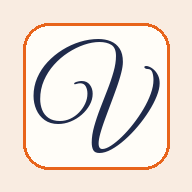
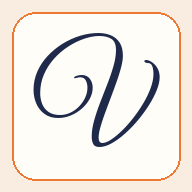
Match exact Hermes orange from client swatch (#ed7933)

Changed region(s): [[0.0625, 0.0625, 0.9688, 0.9688]]

diff --git a/styles.css b/styles.css
@@ -14,23 +14,23 @@
 :root {
   --blush: #f9ece1;
   --paper: #fffdf8;
-  --rose: #e8641b;
-  --rose-deep: #c6520d;
+  --rose: #ed7933;
+  --rose-deep: #d05f15;
   --rose-strong: #b3540d;   /* AA white-on-rose */
   --rose-text: #9c4a0d;     /* AA small text on paper */
   --navy: #1f2a4a;
-  --line: #f0d3bc;
+  --line: #f6d8bd;
   --rule: #cfd8ea;
-  --margin-red: #eda389;
+  --margin-red: #f2a878;
 
   --script: 'Great Vibes', cursive;
   --serif: 'Times New Roman', Times, serif;
 
   --pad-rhythm: 2.2rem;              /* ruled-line spacing */
   --shadow-soft: 0 1px 2px rgba(31, 42, 74, 0.06),
-                 0 6px 18px rgba(198, 82, 13, 0.10);
+                 0 6px 18px rgba(208, 95, 21, 0.10);
   --shadow-lift: 0 2px 4px rgba(31, 42, 74, 0.08),
-                 0 12px 26px rgba(198, 82, 13, 0.16);
+                 0 12px 26px rgba(208, 95, 21, 0.16);
 }
 
 /* ---------- base ---------- */
@@ -204,7 +204,7 @@ main {
   height: 2.6rem;
   background-color: var(--rose);
   border-bottom: 2px dashed rgba(255, 253, 248, 0.65);
-  box-shadow: inset 0 -3px 6px rgba(198, 82, 13, 0.45);
+  box-shadow: inset 0 -3px 6px rgba(208, 95, 21, 0.45);
 }
 
 /* red margin line, full height under the binding */
@@ -615,7 +615,7 @@ main {
   height: 11px;
   border-radius: 50% 47% 51% 49%;
   background-color: var(--rose);
-  box-shadow: inset 0 1px 2px rgba(198, 82, 13, 0.6);
+  box-shadow: inset 0 1px 2px rgba(208, 95, 21, 0.6);
 }
 
 .project-card:hover {
@@ -737,7 +737,7 @@ main {
   color: #fffdf8;
   border-radius: 999px;
   font-size: 1rem;
-  box-shadow: 0 2px 6px rgba(198, 82, 13, 0.25);
+  box-shadow: 0 2px 6px rgba(208, 95, 21, 0.25);
   transition: background-color 0.15s ease-out, transform 0.15s ease-out;
 }
 

diff --git a/sw.js b/sw.js
@@ -1,4 +1,4 @@
-const CACHE = 'vivi-v4';
+const CACHE = 'vivi-v5';
 const ASSETS = [
   './',
   './index.html',

diff --git a/MEMORY.md b/MEMORY.md
@@ -2,7 +2,7 @@
 
 ## 2026-07-13 — Vicki's review round
 - Client = Vicki Heise. Change pink → Hermes orange (keep navy, keep classy). Add: weather for both homes (Amy Lane = Wheaton IL, Villa/Valle Vista = Indian Wells CA), Jeff's to-do list (she tracks it), Travel plans module (CA↔IL winters), Mark's care notes + contacts, Dad's hospice updates + contacts.
-- She spelled it "Valle Vista" this time; original brief said "Villa Vista". Kept Villa Vista — flag to Bill to confirm.
+- Bill confirmed: it is "Valle Vista". Renamed everywhere 2026-07-13 (display strings + weather label; list id stays 'villa-vista' for saved-data compat; load() migration forces the new name onto existing saves). sw cache → vivi-v4.
 - Bill: no API budget spend for her → weather via Open-Meteo (free, keyless). Build with sonnet/opus subagents, Fable minimal. Goal: on her computer (site is live at github.io/vivi, she installs from there).
 - Shipped 2026-07-13: 4 sonnet builders (palette #e8641b Hermes orange AA-checked, store v2 w/ care/travel/jeff + deep merges, weather.js Open-Meteo 30-min cache, notes.js debounced autosave + contacts) + opus verifier (28/28 pass, both viewports). Fable only did: index.html shell, 2 Notepad.mount lines, mobile tab-overflow CSS fix. Fixed mobile tab clipping (.tabs overflow-x auto). Screenshot lesson: wait for document.fonts.ready before judging typography.
 - sw cache now vivi-v3; pushed to GitHub Pages same day.